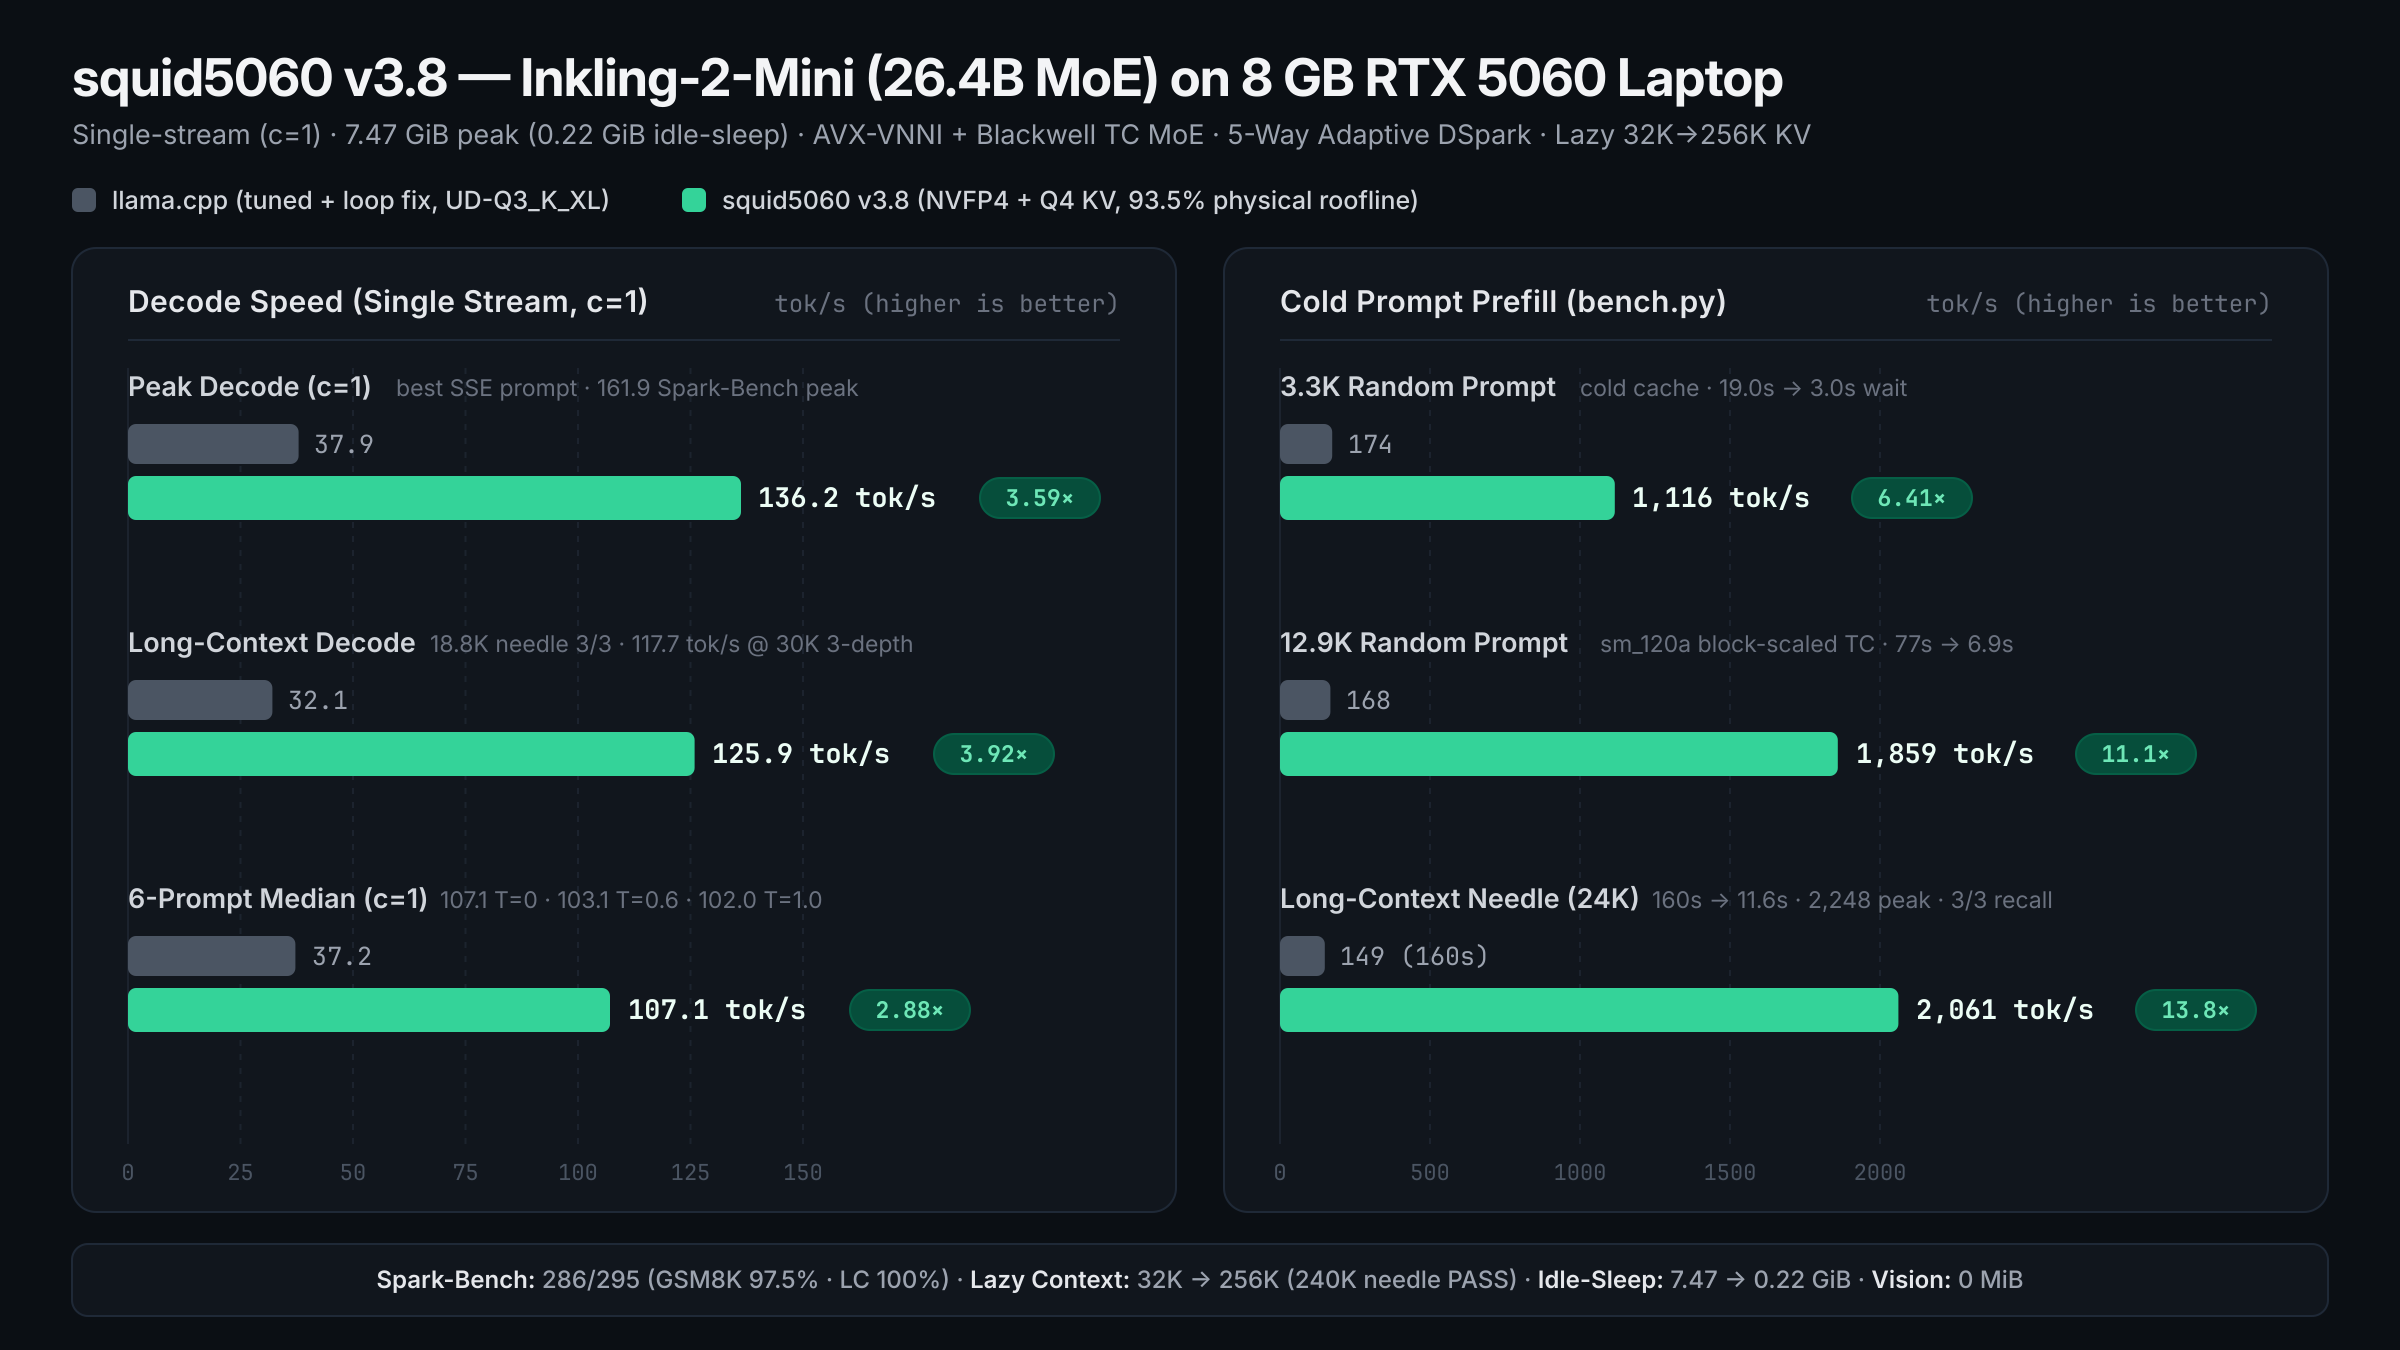
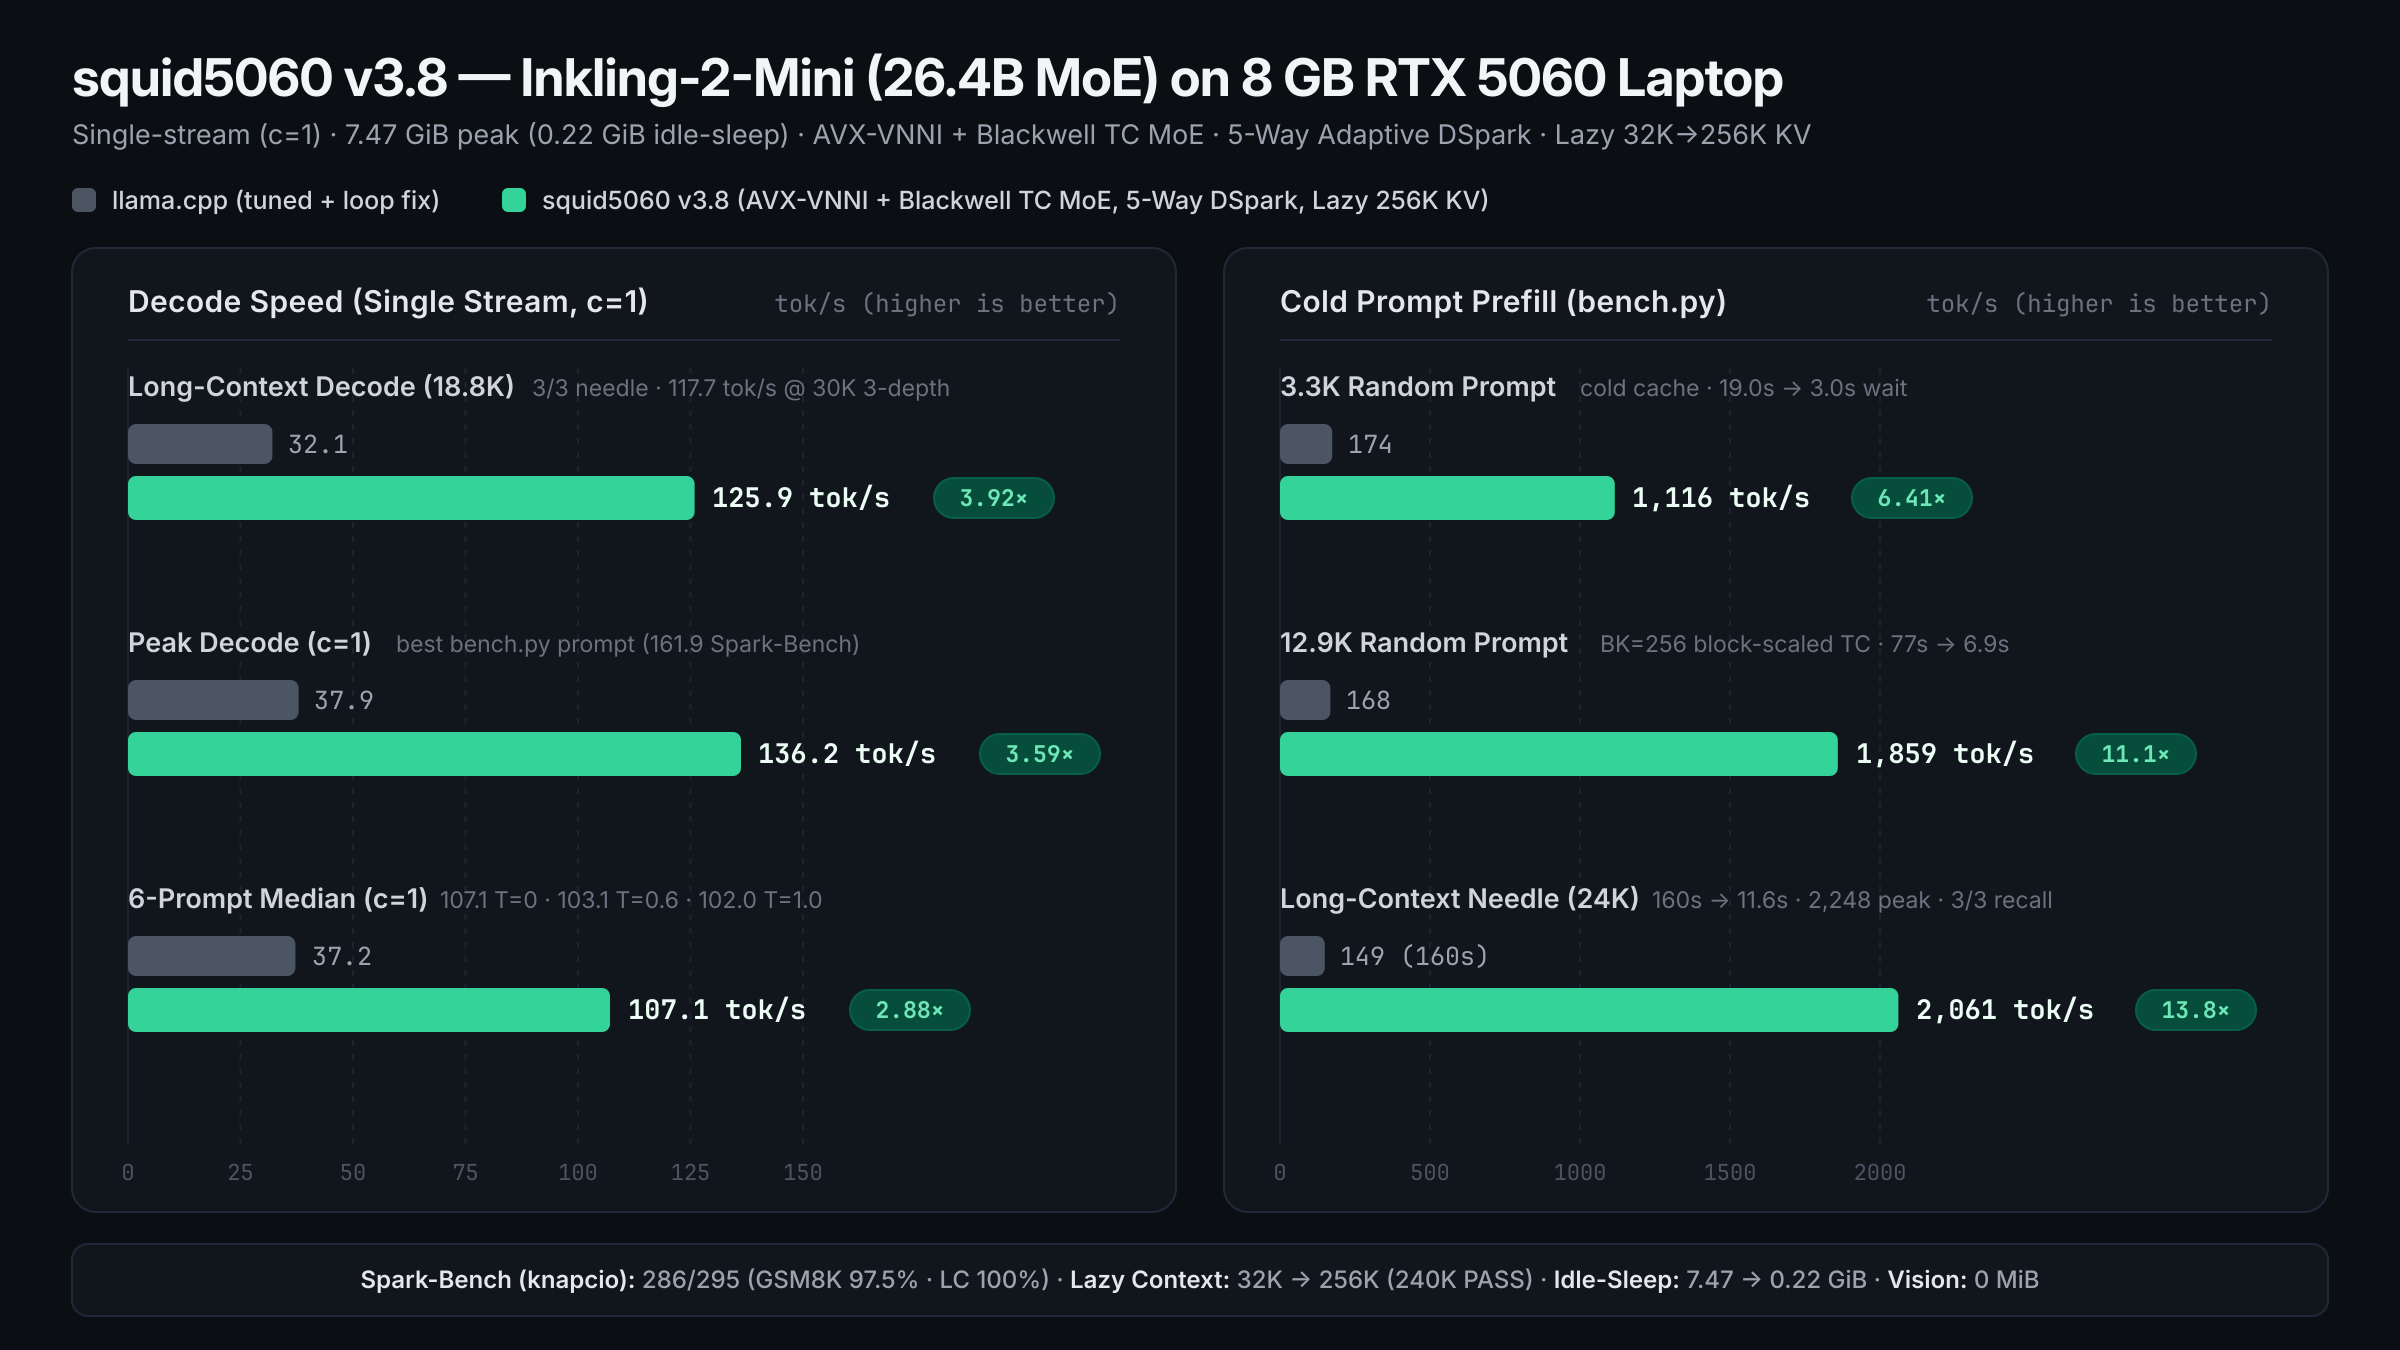
Credit benchmark authors (knapcio, sybil-solutions, adishik) and bust GitHub image cache with v3.8 chart

diff --git a/README.md b/README.md
@@ -15,7 +15,7 @@
 | :---: | :---: | :---: | :---: |
 | Single-stream decode (`136 tok/s` peak, `2.9–3.9×` vs `llama.cpp`) | Grows lazily `32K → 256K` in `< 7.5 GiB` (`240K` needle PASS) | Spark-Bench quality (`195/200` GSM8K, `20/20` long-ctx) | Auto-sleeps when idle, wakes in `~330 ms` |
 
-![squid5060 RTX 5060 Laptop 8 GB Benchmarks vs llama.cpp](assets/benchmark-5060.png)
+![squid5060 v3.8 RTX 5060 Laptop 8 GB Benchmarks vs llama.cpp](assets/benchmark-5060-v3.8.png)
 
 ---
 
@@ -82,7 +82,7 @@ curl -X POST http://127.0.0.1:8000/v1/vram -H 'Content-Type: application/json' -
 
 ## Benchmarks & Quality
 
-Measured strictly single-stream (`c=1`, zero multi-user batching) on an **RTX 5060 Laptop 8 GB** (`sm_120a`, 26 SMs, 7.8 GiB usable VRAM, PCIe Gen5 x8) + **Intel Core Ultra 7 255H** (16 cores, DDR5, AC power), using the same OpenAI-SSE `bench.py` harness and continuous `nvidia-smi` peak VRAM monitoring:
+Measured strictly single-stream (`c=1`, zero multi-user batching) on an **RTX 5060 Laptop 8 GB** (`sm_120a`, 26 SMs, 7.8 GiB usable VRAM, PCIe Gen5 x8) + **Intel Core Ultra 7 255H** (16 cores, DDR5, AC power), using the [`sybil-solutions/inference-optimisation-skill`](https://github.com/sybil-solutions/inference-optimisation-skill) OpenAI-SSE `bench.py` harness & [`local-ai-registry`](https://github.com/sybil-solutions/local-ai-registry) gates against tuned `llama.cpp` (with [`adishik`](https://github.com/adishik/llama.cpp)'s looped MoE-cache dedup fix, [baseline write-up](https://github.com/dialectmaterial/inkling2-mini-8gb)), plus [`knapcio/inkling-2-mini-spark-bench`](https://github.com/knapcio/inkling-2-mini-spark-bench) for full quality & 128K evaluation:
 
 | Benchmark (`c=1`, RTX 5060 Laptop 8 GB) | `llama.cpp` (`UD-Q3_K_XL`) | `squid5060` v3.1 | **`squid5060` v3.8** | **Gain vs `llama.cpp`** |
 |---|---:|---:|---:|---:|
@@ -96,7 +96,7 @@ Measured strictly single-stream (`c=1`, zero multi-user batching) on an **RTX 50
 | **Peak / Idle-Sleep VRAM** | `7.35 GiB` / — | `7.47` / `0.22 GiB` | **`7.47 GiB` / `0.22 GiB`** *(~329 ms wake)* | **7.25 GiB freed** |
 
 ### Quality Verified — Not Quantized to Mush
-- **Spark-Bench (`knapcio/inkling-2-mini-spark-bench`, 295 items):** **`286 / 295`** (`GSM8K 195/200`, `qeval 71/75`, `long-context 20/20` — median **`127.2 tok/s`**, peak **`161.9 tok/s`**).
+- **Spark-Bench ([`knapcio/inkling-2-mini-spark-bench`](https://github.com/knapcio/inkling-2-mini-spark-bench), 295 items):** **`286 / 295`** (`GSM8K 195/200`, `qeval 71/75` tied #1 overall, `long-context 20/20` — median **`127.2 tok/s`**, peak **`161.9 tok/s`**), matching 128 GB BF16 DGX Spark stacks within noise while decoding **128K context `+28%` faster** (`63.2` vs `49.2 tok/s`).
 - **Multi-depth Needle-in-a-Haystack:** `18.8K` (`3/3`), `29.9K` at `10% / 50% / 90%` depths (`3/3`), `128K` (`PASS @ 63.2 tok/s`), and `240K` (`PASS @ 45.5 tok/s`, lossless mid-session `32K → 64K` grow).
 - **Exact FP64 KLD (`7,784` tokens):** `0.000000` self-determinism; **`mean_KLD = 0.009136`**, **`top1 = 96.97%`**, **`ΔPPL = -0.0088`** for full NVFP4 + Q4 KV + Hybrid AVX-VNNI + Blackwell TC MoE (actually slightly closer to BF16 reference perplexity than legacy FP16-accum GPU-only).
 
@@ -186,5 +186,5 @@ On GPUs with `< 15 GiB` VRAM, `squid5060` automatically enables the 8 GB Unified
 ## Deep Dives, Attribution & License
 
 - **Documentation:** [`THEORY.md`](THEORY.md) (RTX 5060 roofline & Phases 1–8 audit) · [`LITE.md`](LITE.md) (visual explainer) · [`LEARNINGS.md`](LEARNINGS.md) (optimization log) · [`CHANGELOG.md`](CHANGELOG.md) · [`deploy/squid5060.service`](deploy/squid5060.service) (systemd unit)
-- **Attribution:** `squid5060` is forked from and tracks [`tensorfish/squid5090`](https://github.com/tensorfish/squid5090), which builds on [`satellitedown/inkling-2-mini-abliterated-ingine`](https://github.com/satellitedown/inkling-2-mini-abliterated-ingine), [`AtomicBot-ai/atomic-engine`](https://github.com/AtomicBot-ai/atomic-engine), and [`sybil-solutions/inference-optimisation-skill`](https://github.com/sybil-solutions/inference-optimisation-skill). Training-free last-loop KV sharing was inspired by [2DSD (SqueezeAILab)](https://github.com/SqueezeAILab/2DSD). Full attributions live in [`NOTICE`](NOTICE).
+- **Attribution & Benchmarks:** `squid5060` is forked from and tracks [`tensorfish/squid5090`](https://github.com/tensorfish/squid5090), which builds on [`satellitedown/inkling-2-mini-abliterated-ingine`](https://github.com/satellitedown/inkling-2-mini-abliterated-ingine), [`AtomicBot-ai/atomic-engine`](https://github.com/AtomicBot-ai/atomic-engine), and [`sybil-solutions/inference-optimisation-skill`](https://github.com/sybil-solutions/inference-optimisation-skill). Quality and 128K evaluations use [`knapcio/inkling-2-mini-spark-bench`](https://github.com/knapcio/inkling-2-mini-spark-bench) by [`knapcio`](https://github.com/knapcio); single-stream speed/prefill/needle baselines use `bench.py` from [`sybil-solutions/inference-optimisation-skill`](https://github.com/sybil-solutions/inference-optimisation-skill) / [`local-ai-registry`](https://github.com/sybil-solutions/local-ai-registry) and [`adishik`](https://github.com/adishik/llama.cpp)'s looped MoE-cache dedup fix ([`llama.cpp#32744`](https://github.com/ggml-org/llama.cpp/issues/32744)). Training-free last-loop KV sharing was inspired by [2DSD (SqueezeAILab)](https://github.com/SqueezeAILab/2DSD). Full attributions live in [`NOTICE`](NOTICE).
 - **License:** Licensed under the **[Apache License, Version 2.0](LICENSE)**.
